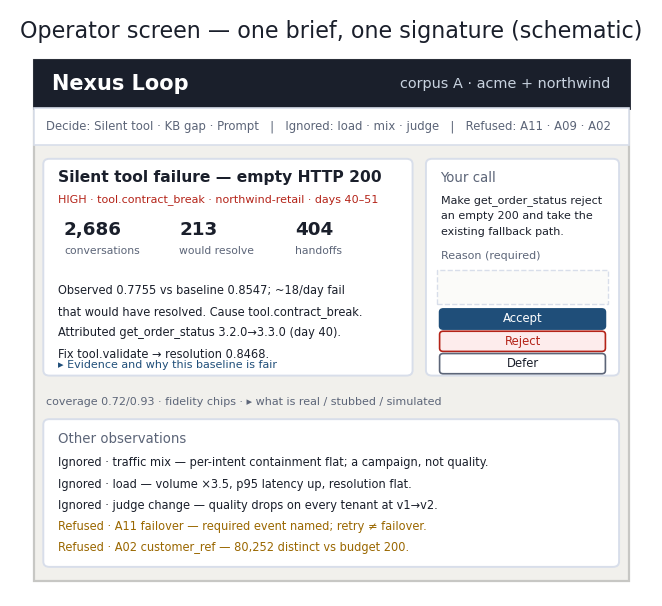
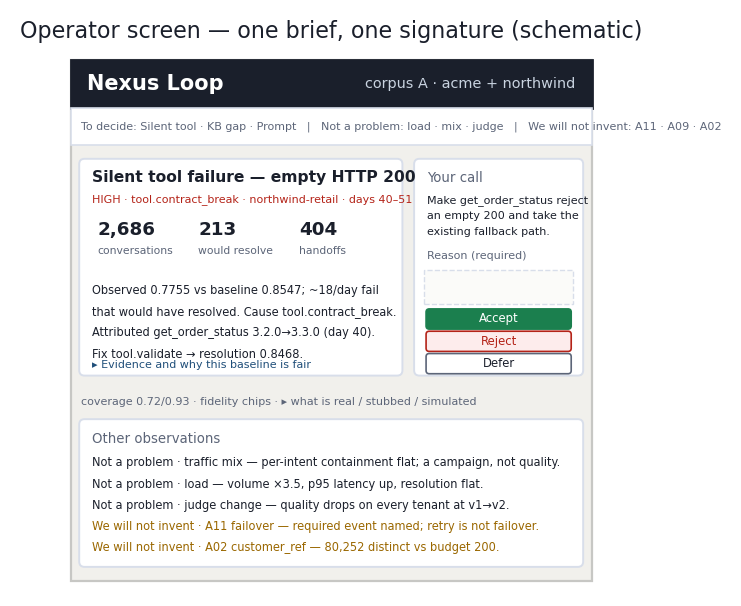
docs: sync edge-cases, solution-overview, ui-handoff, and the report to the fixes
- edge-cases: ledger rows FX11-FX14 (one atomic writer, decision-store lock
  and corrupt-report 500, replay unreadable body, repaired label id); a data
  repair note in section 1.4; a hardened decision-store bullet in section 11.
- solution-overview: the decision screen serializes on a lock, writes through
  one atomic helper, and returns 500 report_invalid on a corrupt report.
- ui-handoff: scope the "no external network" line to the data; the optional
  web fonts fall back offline.
- report draft: section 16 updated to the new To decide / Not a problem /
  We will not invent tabs and the traffic-light gate; section 13.3 scopes the
  offline claim; section 11.1 notes the lock and atomic write; section 17.4
  gains the concurrency, corrupt-report, replay-body and label defects.
- figures: regenerate operator_screen.png for the new tabs and gate, and make
  the generator resolve the repo root so it rebuilds from any checkout.

Changed region(s): [[0.0302, 0.0297, 0.9668, 0.6238], [0.0604, 0.6535, 0.7553, 0.9802], [0.7855, 0.6832, 0.9366, 0.9802]]

diff --git a/report/figures/make_figures.py b/report/figures/make_figures.py
@@ -17,7 +17,18 @@ import numpy as np
 from collections import Counter, defaultdict
 
 HERE = os.path.dirname(os.path.abspath(__file__))
-REPO = os.path.abspath(os.path.join(HERE, "..", ".."))  # repo root, so figures rebuild anywhere
+
+
+def _find_repo(start):
+    for cand in (os.path.join(start, "..", ".."), os.path.join(start, "..", "yellow-ai"),
+                 os.path.join(start, "..")):
+        p = os.path.abspath(cand)
+        if os.path.exists(os.path.join(p, "run.py")) and os.path.isdir(os.path.join(p, "nexus_loop")):
+            return p
+    raise SystemExit("repo root not found from %s" % start)
+
+
+REPO = _find_repo(HERE)
 sys.path.insert(0, REPO)
 from nexus_loop.io import Kit  # noqa: E402
 from nexus_loop.features import Corpus, resolved  # noqa: E402
@@ -311,8 +322,8 @@ def fig_screen():
     ax.text(96, 94.5, "corpus A · acme + northwind", color="#c9d3e0", fontsize=5.2, va="center", ha="right")
     # tabs
     ax.add_patch(Rectangle((1, 83), 98, 7, fc="white", ec=LINE, lw=0.6))
-    ax.text(3, 86.5, "Decide: Silent tool · KB gap · Prompt   |   Ignored: load · mix · judge   |   Refused: A11 · A09 · A02",
-            fontsize=4.2, va="center", color=SLATE)
+    ax.text(3, 86.5, "To decide: Silent tool · KB gap · Prompt   |   Not a problem: load · mix · judge   |   We will not invent: A11 · A09 · A02",
+            fontsize=4.0, va="center", color=SLATE)
     # brief
     ax.add_patch(FancyBboxPatch((3, 40), 60, 40, boxstyle="round,pad=0.4,rounding_size=1", fc="white", ec=LINE, lw=0.7))
     ax.text(5, 76, "Silent tool failure — empty HTTP 200", fontsize=5.6, color=NAVY_D, weight="bold")
@@ -333,7 +344,7 @@ def fig_screen():
     ax.text(68, 66, "existing fallback path.", fontsize=4.0, color=NAVY_D)
     ax.text(68, 61.5, "Reason (required)", fontsize=4.0, color=SLATE)
     ax.add_patch(Rectangle((67.5, 53), 28, 6.5, fc="#fbfbf9", ec=LINE, lw=0.5, ls="--"))
-    for i, (lab, fc, ec, tc) in enumerate([("Accept", NAVY, NAVY, "white"), ("Reject", "#fdecec", RED, RED), ("Defer", "white", SLATE, NAVY_D)]):
+    for i, (lab, fc, ec, tc) in enumerate([("Accept", GREEN, GREEN, "white"), ("Reject", "#fdecec", RED, RED), ("Defer", "white", SLATE, NAVY_D)]):
         ax.add_patch(FancyBboxPatch((68, 48.5 - i * 4.2), 27, 3.5, boxstyle="round,pad=0.15,rounding_size=0.6", fc=fc, ec=ec, lw=0.6))
         ax.text(81.5, 50.2 - i * 4.2, lab, fontsize=4.2, color=tc, ha="center", va="center")
     # honesty strip
@@ -341,11 +352,11 @@ def fig_screen():
     # other findings
     ax.add_patch(FancyBboxPatch((3, 4), 94, 27, boxstyle="round,pad=0.4,rounding_size=1", fc="white", ec=LINE, lw=0.7))
     ax.text(5, 27, "Other observations", fontsize=4.8, color=SLATE)
-    ax.text(5, 22.5, "Ignored · traffic mix — per-intent containment flat; a campaign, not quality.", fontsize=4.1, color=NAVY_D)
-    ax.text(5, 18.5, "Ignored · load — volume ×3.5, p95 latency up, resolution flat.", fontsize=4.1, color=NAVY_D)
-    ax.text(5, 14.5, "Ignored · judge change — quality drops on every tenant at v1→v2.", fontsize=4.1, color=NAVY_D)
-    ax.text(5, 10.5, "Refused · A11 failover — required event named; retry ≠ failover.", fontsize=4.1, color=AMBER)
-    ax.text(5, 6.5, "Refused · A02 customer_ref — 80,252 distinct vs budget 200.", fontsize=4.1, color=AMBER)
+    ax.text(5, 22.5, "Not a problem · traffic mix — per-intent containment flat; a campaign, not quality.", fontsize=4.1, color=NAVY_D)
+    ax.text(5, 18.5, "Not a problem · load — volume ×3.5, p95 latency up, resolution flat.", fontsize=4.1, color=NAVY_D)
+    ax.text(5, 14.5, "Not a problem · judge change — quality drops on every tenant at v1→v2.", fontsize=4.1, color=NAVY_D)
+    ax.text(5, 10.5, "We will not invent · A11 failover — required event named; retry is not failover.", fontsize=4.1, color=AMBER)
+    ax.text(5, 6.5, "We will not invent · A02 customer_ref — 80,252 distinct vs budget 200.", fontsize=4.1, color=AMBER)
     ax.set_title("Operator screen — one brief, one signature (schematic)", fontsize=8.0, color=NAVY_D)
     fig.tight_layout()
     fig.savefig(os.path.join(HERE, "operator_screen.png"), bbox_inches="tight")

diff --git a/report/endterm-report.md b/report/endterm-report.md
@@ -303,7 +303,7 @@ P-01 improved and is a candidate for deployment, with the golden set intact. The
 
 The screen renders only the report. A reviewer sees the claim, the harm numbers, the cause, the proposed change, the replay result, and the risk, then records a verdict. Approve, reject and defer are all first-class. A rejection with a strong reason is a valid outcome, not a failure.
 
-The verdict writes into the report. The server updates only the target prescription's approval field, revalidates the whole report, replaces the file atomically, and appends the decision to a log. A reason is required.
+The verdict writes into the report. The server serializes decisions on a lock, updates only the target prescription's approval field, revalidates the whole report, writes it through one atomic helper, and appends the decision to a log. A reason is required.
 
 ### 11.2 Decision record
 
@@ -385,7 +385,7 @@ The report is produced by the pipeline, validated against the provided schema pl
 
 ### 13.3 Execution environment
 
-Python 3.9 or later, no third-party packages, no network access except the optional local replay call. The whole pipeline runs offline.
+Python 3.9 or later, no third-party packages, and no network access except the optional local replay call. The pipeline runs offline. The screen is the only component that may reach the network, and only for optional web fonts; offline it falls back to system fonts, and it sends no data out.
 
 ---
 
@@ -423,7 +423,7 @@ The held-out corpora were generated by a separate harness that renames labels, r
 
 ## 16. Operator screen
 
-The screen is one brief and one signature rather than a dashboard. The header carries the coverage and fidelity chips and a disclosure for what is real, stubbed and simulated. A one-line switcher reaches the regressions to decide, the lookalikes that were ignored, and the refusals, with the failover refusal first. The brief shows the claim, three harm numbers, the consequence of waiting, the cause, the proposed change and the replay. Evidence and baseline working sit under a disclosure. The sticky panel carries the ask, the risk and the no-ship condition, and the approve, reject and defer controls with a required reason.
+The screen is one brief and one signature rather than a dashboard. The header carries the coverage and fidelity chips and a disclosure for what is real, stubbed and simulated. A one-line switcher has three views: **To decide** (the regressions), **Not a problem** (the lookalikes we examined and dismissed), and **We will not invent** (the refusals, failover first). The brief shows the claim, three harm numbers, the consequence of waiting, the cause, the proposed change and the replay. Evidence and baseline working sit under a disclosure, and the detector codes sit in a Technical names footer. The sticky panel carries the ask, the risk and the no-ship condition, and a traffic-light gate: a green Accept, a red Reject, and a grey Defer, each with a required reason. Arrow keys and Home/End move the selection through a long queue. The claim is set in Newsreader and the chrome in Source Sans 3, with system fallbacks when the page cannot reach the web fonts.
 
 ![Operator screen](figures/operator_screen.png)
 
@@ -459,6 +459,10 @@ We audited the pipeline against a static set of edge cases and found real defect
 | The plan advertised breakdowns it did not produce | A reader looking for an advertised cut would not find it | Every declaration was narrowed to what is produced |
 | A judged metric could vanish with no explanation | A missing calibration removed the reading silently | It now files an explicit gap |
 | Regeneration reset recorded approvals | A human verdict was lost on the next run | Approvals are carried forward by identity |
+| Two decisions at once could collide on one temp file | Both returned success while one was lost, and an interleaved write left the report as invalid JSON | Decisions serialize on a lock and every writer uses a unique temp file, fsync and replace |
+| A corrupt report dropped the connection | The screen could not load and never recovered | The report endpoint returns 500 report_invalid |
+| A non-JSON replay response crashed the run | An unexpected body from the replay endpoint aborted the run before the report was written | The client treats an unreadable body as unavailable |
+| One label session id contained a pasted path | A visibly broken data file, though the pipeline never reads it | The id was restored against the corpus |
 
 None of these changed the machine score, which is the point: the score alone would not have surfaced them.
 

diff --git a/docs/edge-cases.md b/docs/edge-cases.md
@@ -49,6 +49,10 @@ measure and flag:
   `kb_lookup` (and guardrail) steps; only `tool_call` is truly absent. Each
   affected metric carries `coverage.observed_vs_declared` rather than trusting the
   prose.
+- **One data repair.** A line in `kit/labels/outcome_labels.jsonl` had a pasted
+  filesystem path inside a session id (`s_no/home/.../README.mdrt_042184`). It was
+  restored to `s_nort_042184`, which the corpus confirms. The pipeline never reads
+  this file, so no number moved; the file is just no longer visibly broken.
 > "We measure coverage from the corpus and print the declared-vs-observed gap,
 > including where the catalog's own numbers are stale."
 
@@ -300,6 +304,10 @@ trap is found or a `[queued]` item ships.
 | FX8 | Step-grain fallback for by-design handoff and milestones when the session field is absent | `features.by_design_handoff`, `features.milestones_of` | `metrics[m_containment]`, `metrics[m_returns_dropoff]` | handled |
 | FX9 | Mix dismissal no longer silently skips small cohorts | `decoys.detect_traffic_mix` | `findings[f05].evidence` | handled |
 | FX10 | Window length cap raised from `D//2` to `D` | `series.best_window` callers | `findings[].window` | handled |
+| FX11 | One atomic JSON writer (unique temp, fsync, replace) for report, golden set, and screen | `io.write_json_atomic` | `loop-report.json`, `out/golden_set.json` | handled |
+| FX12 | Concurrent decisions serialized by a lock; a corrupt report returns 500, not a dropped connection | `app.ReportStore` | `prescriptions[].approval` | handled |
+| FX13 | A non-JSON replay response is `unavailable`, not a crash | `replay.post_replay` | `verifications[]` | handled |
+| FX14 | Repaired a pasted path inside a label session id (file is unread; no score change) | `kit/labels/outcome_labels.jsonl` | (unread) | handled |
 | IN1 | z assumes independent sessions; clustering inflates z (high floors offset) | `series.best_window` | `findings[].evidence` z token | state-only |
 | IN2 | Multiple comparisons: ~1,500 windows × ~50 cohorts under a fixed z floor | `series.py`, `detect.py` | `findings[].evidence` | state-only |
 | IN3 | Winner's curse: window chosen for contrast, effect measured on same days | `series.py` | `findings[].observed/expected` | state-only |
@@ -400,6 +408,12 @@ should you trust this" answers. (Ledger rows IN1–IN14.)
   decision, so re-score after deciding.
 - **Regeneration used to wipe verdicts — now fixed.** Approvals are carried
   forward by (id, diagnosis_id, target) and `run.py` notes PRESERVED.
+- **The decision store is hardened.** Concurrent decisions are serialized by a
+  lock, every write goes through one atomic JSON helper (unique temp file in the
+  target directory, `fsync`, `os.replace`, cleanup on failure), the screen
+  re-validates the whole report before it writes, a corrupt report returns
+  `500 report_invalid` instead of dropping the connection, and a replay response
+  that is not JSON is treated as unavailable rather than crashing the run.
 
 ## 12. Verify-later (data checks for a sealed or other corpus)
 

diff --git a/docs/solution-overview.md b/docs/solution-overview.md
@@ -197,10 +197,14 @@ by judged quality within the current judge version.
 
 A single stdlib HTTP server that renders **only** the report:
 
-- `GET /` — the page; `GET /report.json` — the current report; `GET /health`;
+- `GET /` — the page; `GET /report.json` — the current report (returns `500
+  report_invalid` if the file is corrupt rather than dropping the connection);
+  `GET /health` — liveness booleans (it does not leak the report path);
 - `POST /decision` — `{prescription_id, verdict, decided_by, reason}` (reason
-  required); it updates exactly that prescription's `approval`, validates the
-  report, replaces the file atomically, and appends `decisions.log`.
+  required). It serializes on a lock, updates exactly that prescription's
+  `approval`, re-validates the whole report, writes it through one atomic helper
+  (a unique temp file in the target directory, `fsync`, `os.replace`), and
+  appends `decisions.log`.
 
 The screen is intentionally small and complete; the UI/product team can restyle
 or rebuild it as long as it keeps rendering from the report. The contract, the

diff --git a/docs/ui-handoff.md b/docs/ui-handoff.md
@@ -29,8 +29,9 @@ python3 run.py --kit kit --team demo --out out/loop-report.json
 ```
 
 The screen is `nexus_loop/static/index.html` (plain HTML/CSS/JS, no build step)
-served by `nexus_loop/app.py` (Python stdlib `http.server`). No API keys, no
-external network.
+served by `nexus_loop/app.py` (Python stdlib `http.server`). No API keys. The only
+external request is the optional web fonts (Newsreader, Source Sans 3); offline
+they fall back to Iowan/Palatino and Segoe/Inter, and no data leaves the box.
 
 For a zero-setup look without running anything, open `examples/demo.html` — a
 standalone lo-fi **wireframe** populated with `examples/sample-report.json` (the
